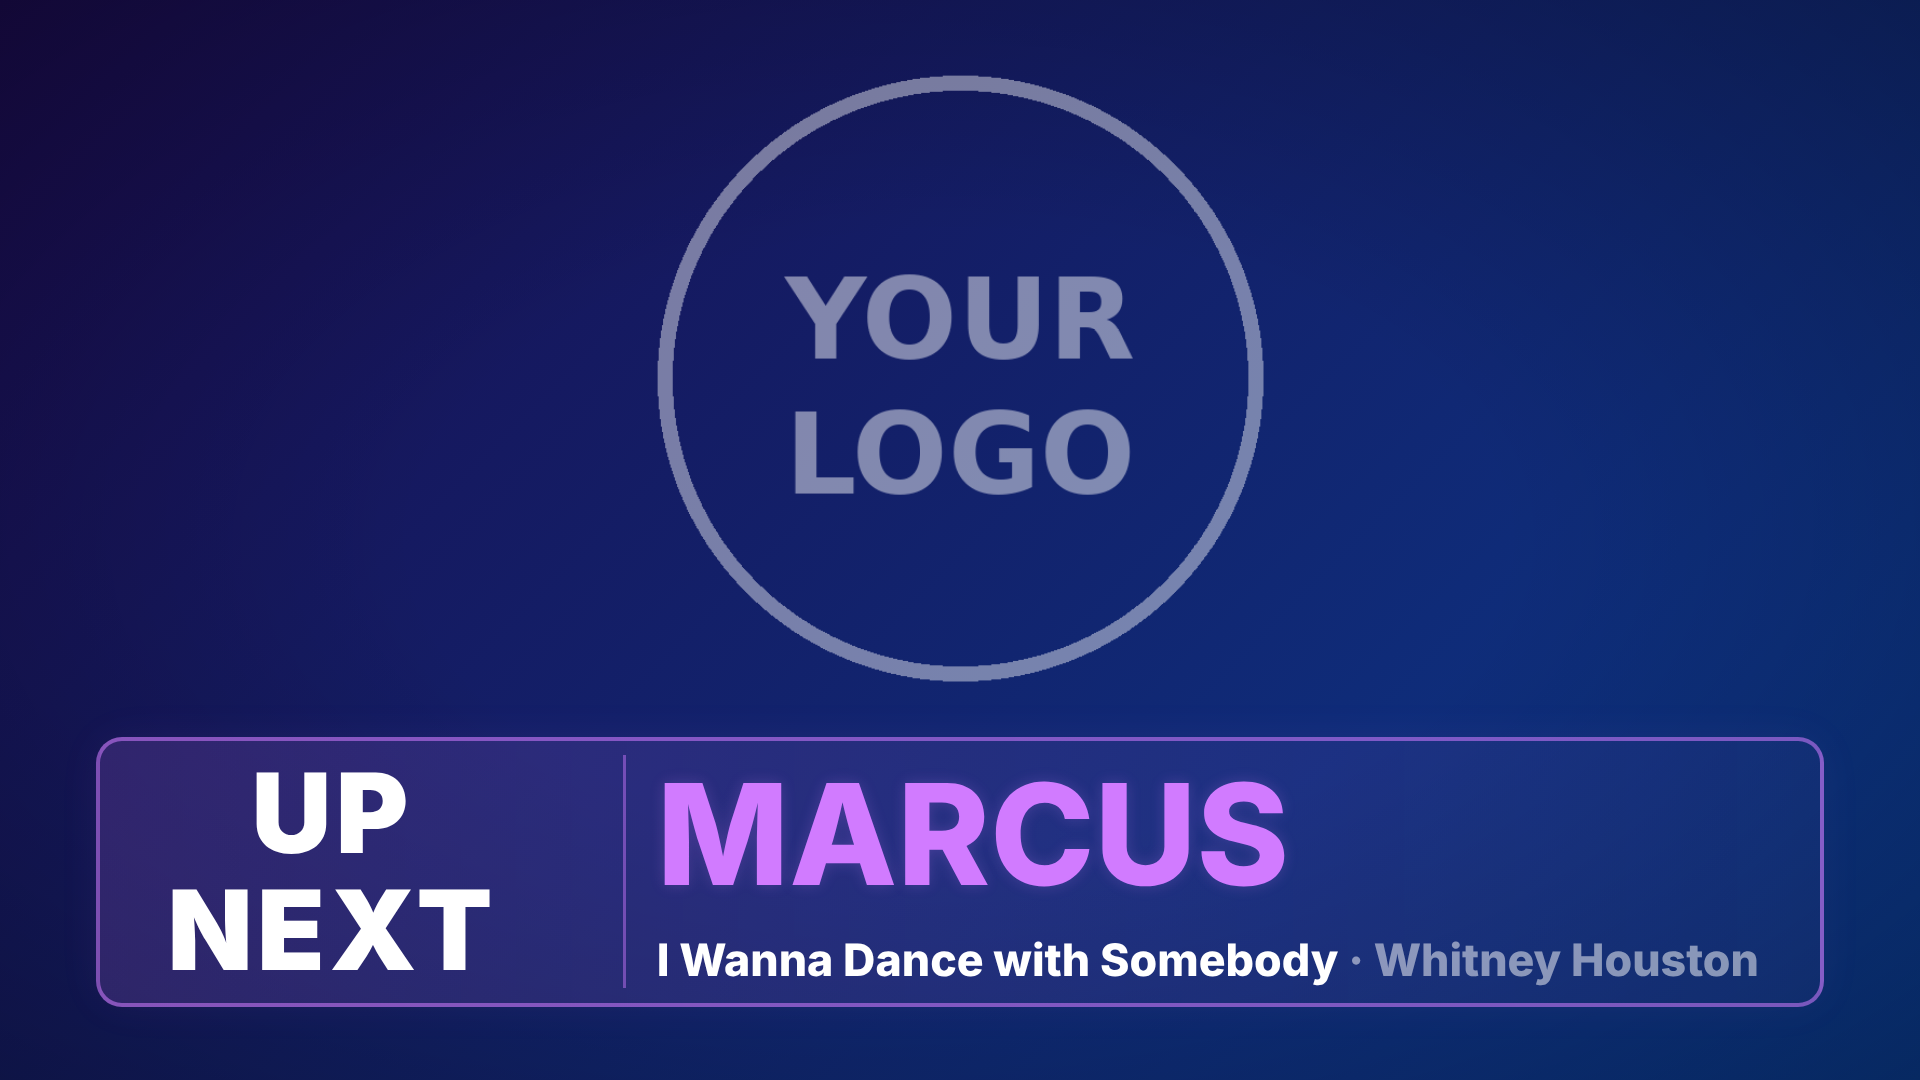
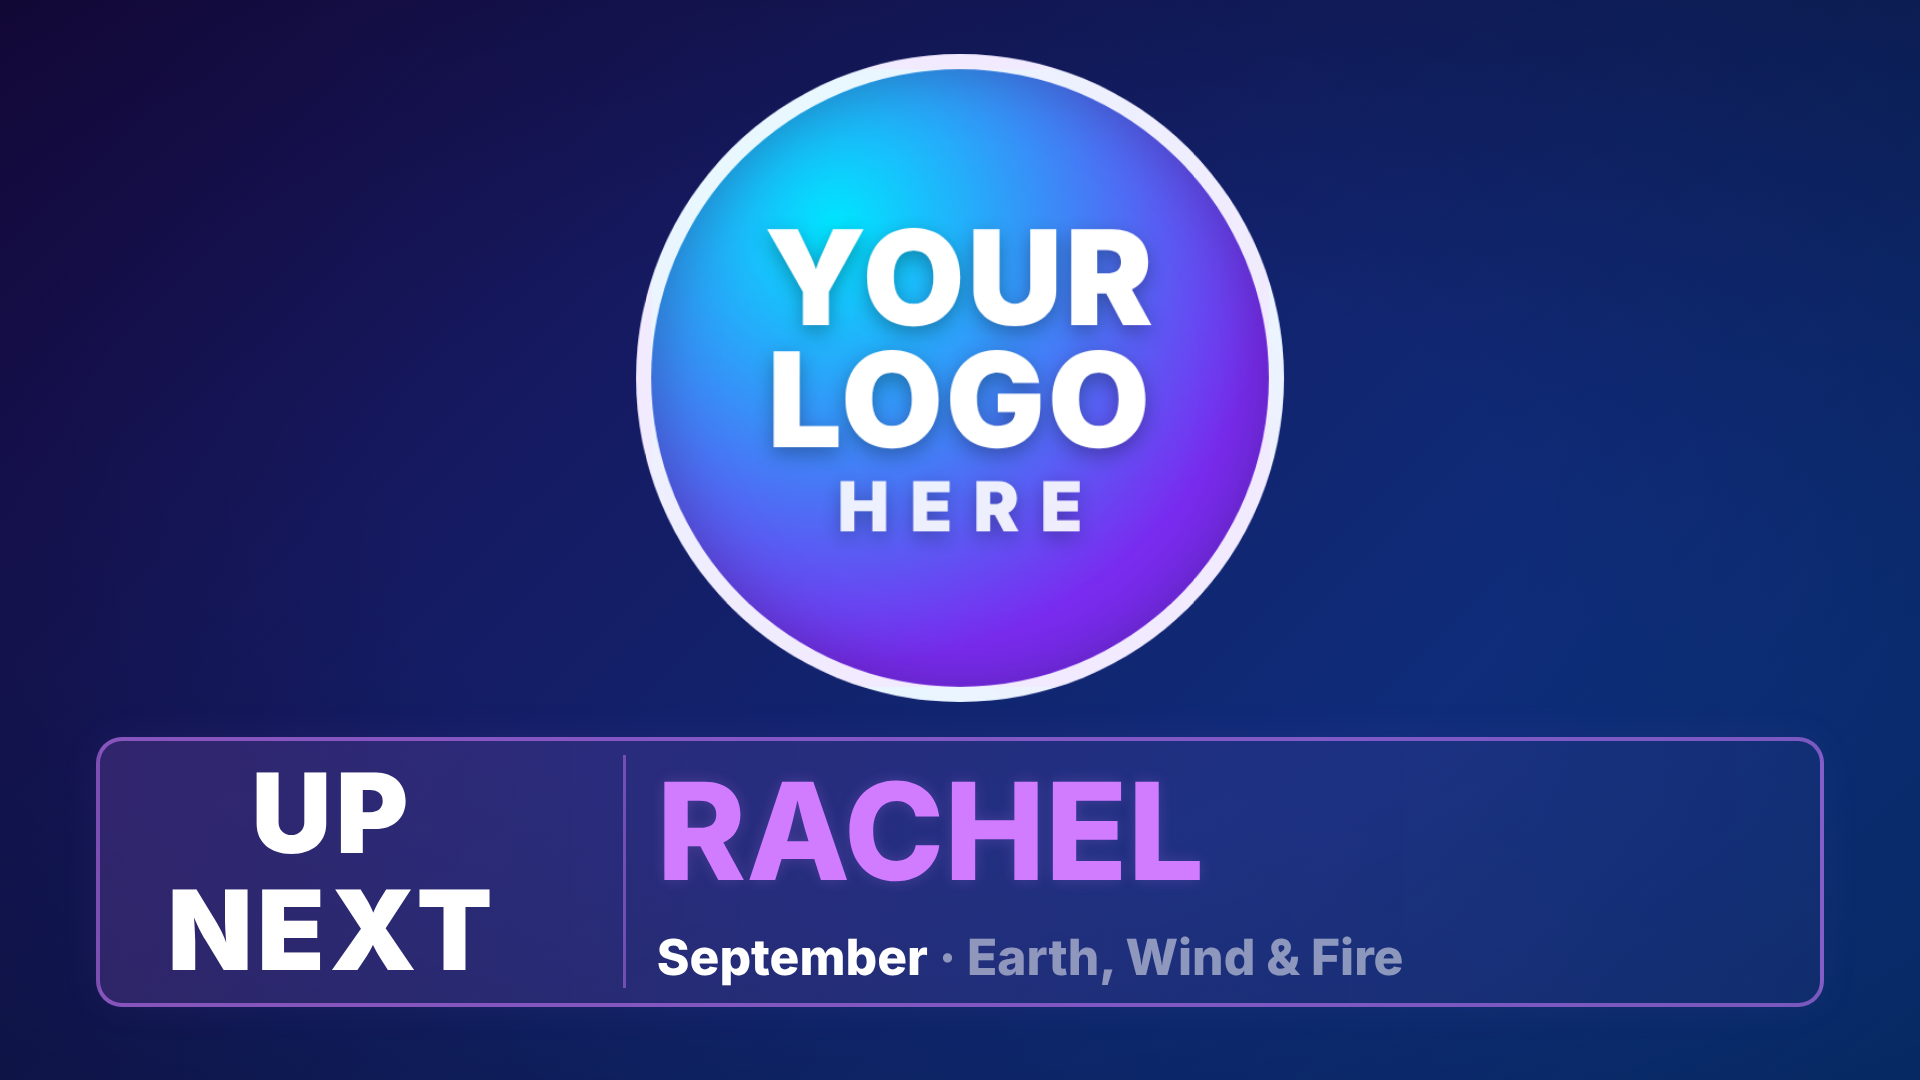
Bigger break screens, Equity in Options, new sample crowd and screenshots, spotlight starts on the queue
Claude-Session: https://claude.ai/code/session_01T6WqMGWzKwPbF2TtYgSiwr

Changed region(s): [[0.3125, 0.0306, 0.6875, 0.6722], [0.3438, 0.7028, 0.6875, 0.825], [0.3438, 0.8556, 0.9375, 0.9167]]

diff --git a/index.html b/index.html
@@ -52,7 +52,7 @@
   #brand { transform-origin: calc(100% - 22vh) 50%; }
   /* logosize=<percent>: smaller logo, flush with the right edge, so there is more room between it and the boxes */
   body.logosized:not(.qrboth):not(.intermission) #brand { height: calc(51.8vh * var(--ls)); width: calc(44vh * var(--ls));
-    top: calc(51.8vh * (1 - var(--ls)) / 2); right: 0; transform-origin: calc(100% - 22vh * var(--ls)) 50%; }
+    top: calc(51.8vh * (1 - var(--ls)) / 2); right: 2.5vh; transform-origin: calc(100% - 22vh * var(--ls)) 50%; }
   /* Before play (just the Up Next box up top): Coming Up stays where it sits during a song */
   /* and the Up Next box sits centered in the space the two boxes normally take */
   body.prestart:not(.intermission) #heroWrap { margin-top: 13.4vh; }
@@ -136,9 +136,12 @@
   #applause .claps { font-size: 7vh; margin-top: 2vh; letter-spacing: .3em; color: #fff; opacity: .7; }
   @keyframes applausein { from { opacity: 0; transform: scale(1.08); } to { opacity: 1; transform: none; } }
   @keyframes applausebeat { 0%, 100% { transform: scale(1); } 50% { transform: scale(1.06); } }
-  /* BRB / Dance Party: message under a smaller logo */
-  body.intermission.custombreak #brand { height: calc(100% - 60vh); }
-  body.intermission.custombreak #view:not(.nologo) #breakMsg { top: calc(100% - 60vh); height: 28vh; font-size: 11vh; }
+  /* BRB / Dance Party / Last Call: big logo, message under it, Up Next along the bottom */
+  body.intermission.custombreak #brand { height: calc(100% - 52vh); }
+  body.intermission.custombreak #view:not(.nologo) #breakMsg { top: calc(100% - 52vh); height: 22vh; font-size: 10vh; }
+  /* ...and when nobody's up next, the logo and message fill the screen */
+  body.intermission.custombreak.breaknonext #brand { height: calc(100% - 26vh); }
+  body.intermission.custombreak.breaknonext #view:not(.nologo) #breakMsg { top: calc(100% - 26vh); height: 24vh; font-size: 11vh; }
   /* LAST CALL: flashing red */
   @keyframes lastcall { 0%, 49% { opacity: 1; } 50%, 100% { opacity: .25; } }
   .lastcall { color: #ff2a2a !important; -webkit-text-fill-color: #ff2a2a; text-shadow: 0 0 3vh rgba(255,42,42,.7) !important;
@@ -261,7 +264,7 @@
   #nowBarText { min-width: 0; flex: 1; }
   #nowBarLabel { }
   #nowBarName { min-width: 0; flex: 0 1 auto; font-size: 13vh; font-weight: 800; line-height: 1.12; padding-bottom: .1em; white-space: nowrap; overflow: hidden; text-overflow: ellipsis;
-    text-shadow: 0 0 .6vh rgba(var(--now),.05); }
+    text-shadow: 0 0 1.4vh rgba(var(--now),.2); }
   #nowBarSong { font-size: 4.6vh; font-weight: 800; color: #fff; margin-top: .6vh; white-space: nowrap; overflow: hidden; text-overflow: ellipsis; }
 
   /* Hero: the singer who goes next, big and yellow. Name shrinks to fit (see fitName). */
@@ -286,7 +289,7 @@
   #empty .esub { font-size: 5vh; font-weight: 800; color: #fff; }
   /* Empty queue with a logo: the logo big in the middle, the message underneath. Without a logo: the card centered. */
   body.emptyq:not(.intermission) #view.nologo #empty { margin-top: 19vh; }
-  body.emptyq.emptyq:not(.intermission):not(.qrboth) #brand { top: 0; left: 0; right: 0; width: 100%; height: calc(100% - 30vh);
+  body.emptyq.emptyq:not(.intermission):not(.qrboth) #brand { top: 4vh; left: 0; right: 0; width: 100%; height: calc(100% - 38vh);
     object-position: center; transform-origin: 50% 50%; }
   body.emptyq:not(.intermission) #view:not(.nologo) #top { padding-right: 0; margin-top: auto; }
   body.emptyq:not(.intermission) #view:not(.nologo) #empty { height: 26vh; gap: 1vh; }
@@ -745,7 +748,7 @@ var qrcode=function(){var t=function(t,r){var e=t,n=g[r],o=null,i=0,a=null,u=[],
     var qrSvg = makeQr();
     clearInterval(splitTimer);
     document.body.classList.toggle("noflicker", off("flicker"));
-    var ls = parseFloat(cfg.logosize); if (isNaN(ls)) ls = 70;   // logos sit at 70% by default; logosize=100 for full size
+    var ls = parseFloat(cfg.logosize); if (isNaN(ls)) ls = 76;   // logos sit at 76% by default; logosize=100 for full size
     document.body.classList.toggle("logosized", ls > 0 && ls < 100);
     if (ls > 0 && ls < 100) document.documentElement.style.setProperty("--ls", Math.max(40, ls) / 100);
     var spinSec = parseFloat(cfg.qrswap); if (isNaN(spinSec)) spinSec = 5; spinSec = Math.max(3, Math.min(120, spinSec));
@@ -934,7 +937,9 @@ var qrcode=function(){var t=function(t,r){var e=t,n=g[r],o=null,i=0,a=null,u=[],
     if (!ok) { spotSince = 0; setSpot(false); return; }
     if (!spotSince) spotSince = Date.now();
     var t = (Date.now() - spotSince) / 1000, cycle = 20;   // 10 seconds of the card, 10 of the normal screen
-    var want = (t % cycle) < 10;
+    // All-night mode starts on the normal screen, so a fresh page shows the whole queue first;
+    // between-songs mode still opens on the card.
+    var want = spotMode === "loop" ? (t % cycle) >= 10 : (t % cycle) < 10;
     if (want && !spotShown) {
       $("spotLabel").textContent = nowCard ? $("nowLabelText").innerHTML.replace(/<br\s*\/?>/gi, " ").replace(/<[^>]*>/g, "").trim()
         : ($("nextLabelText").innerHTML.replace(/<br\s*\/?>/gi, " ").replace(/<[^>]*>/g, "") || "UP NEXT").replace(/\u2026$/, "").trim();
@@ -1105,7 +1110,7 @@ var qrcode=function(){var t=function(t,r){var e=t,n=g[r],o=null,i=0,a=null,u=[],
     }
     if ((m = singer.match(/^last\s*call\b\s*(\d{1,3})?/i)))
       return { kind: "lastcall", mins: m[1] ? parseInt(m[1], 10) : 0 };
-    if ((m = singer.match(/^dance\s*(?:party\b|!+)(.*)$/i))) {
+    if ((m = singer.match(/^dance(?:\s*party)?\b\s*!*(.*)$/i))) {
       var restTxt = m[1], dm = restTxt.match(/(\d{1,3})/);
       return { kind: "dance", mins: dm ? parseInt(dm[1], 10) : 0, rainbow: /\b(r|rainbow)\b/i.test(restTxt) };
     }
@@ -1192,6 +1197,7 @@ var qrcode=function(){var t=function(t,r){var e=t,n=g[r],o=null,i=0,a=null,u=[],
     // Someone's singing but nobody's signed up after them: an open Up Next slot inviting people up.
     heroOpen = singing && !heroItem;
     $("heroWrap").classList.toggle("hidden", !heroItem && !heroOpen);
+    document.body.classList.toggle("breaknonext", !heroItem && !heroOpen);
     if (heroOpen) {
       $("heroName").textContent = "You?"; $("heroName").className = ""; $("heroName").style.color = ""; $("heroName").style.textShadow = "";
       $("heroSong").textContent = "Come sign up!";
@@ -1809,12 +1815,13 @@ var qrcode=function(){var t=function(t,r){var e=t,n=g[r],o=null,i=0,a=null,u=[],
 
   // ---------------------------------------------------------------- demo mode
   var DEMO_SONGS = [
-    ["Jessica", "Don't Stop Believin'", "Journey"], ["Marcus", "I Wanna Dance with Somebody", "Whitney Houston"],
-    ["Dana & Mike", "Islands in the Stream", "Kenny Rogers & Dolly Parton"], ["Priya", "Before He Cheats", "Carrie Underwood"],
-    ["Tyler", "Mr. Brightside", "The Killers"], ["BRB KJ 5", "", ""], ["Grace", "Total Eclipse of the Heart", "Bonnie Tyler"],
-    ["Luis", "Sweet Caroline", "Neil Diamond"], ["Becca", "Dancing Queen", "ABBA"],
-    ["Sam", "Friends in Low Places", "Garth Brooks"], ["Olivia", "Livin' on a Prayer", "Bon Jovi"],
-    ["Raven", "Bela Lugosi's Dead", "Bauhaus"], ["Big Steve", "Bohemian Rhapsody", "Queen"]];
+    ["Maya", "Valerie", "Amy Winehouse"], ["Rachel", "September", "Earth, Wind & Fire"],
+    ["Dana & Mike", "Shallow", "Lady Gaga & Bradley Cooper"], ["Priya", "Espresso", "Sabrina Carpenter"],
+    ["Kevin", "Friends in Low Places", "Garth Brooks"], ["Ashley", "Man! I Feel Like a Woman!", "Shania Twain"],
+    ["BRB KJ 5", "", ""], ["Tony", "Mr. Brightside", "The Killers"], ["Grace", "Total Eclipse of the Heart", "Bonnie Tyler"],
+    ["Luis", "Livin' la Vida Loca", "Ricky Martin"], ["Becca", "Pink Pony Club", "Chappell Roan"],
+    ["Sam", "Wagon Wheel", "Darius Rucker"], ["Keisha", "No Scrubs", "TLC"], ["Olivia", "Rolling in the Deep", "Adele"],
+    ["Ray", "Sweet Caroline", "Neil Diamond"], ["Chris", "Bohemian Rhapsody", "Queen"]];
   // Goth preview: a darker crowd
   var DEMO_GOTH = [
     ["Raven", "Bela Lugosi's Dead", "Bauhaus"], ["Lilith", "Cities in Dust", "Siouxsie and the Banshees"],
@@ -1970,11 +1977,12 @@ var qrcode=function(){var t=function(t,r){var e=t,n=g[r],o=null,i=0,a=null,u=[],
     ["time", "Song progress", [["", "Bar"], ["both", "Bar + countdown"], ["off", "Off"]]],
     ["clock", "Clock", [["", "On"], ["off", "Off"]]],
     ["caps", "Names", [["", "ALL CAPS"], ["off", "As typed"]]],
-    ["logosize", "Logo size", [["", "70%"], ["60", "60%"], ["80", "80%"], ["90", "90%"], ["100", "100%"]]],
+    ["logosize", "Logo size", [["", "76%"], ["60", "60%"], ["70", "70%"], ["90", "90%"], ["100", "100%"]]],
     ["spin", "Logo spin", [["", "Off"], ["on", "Every 5 sec"]]],
     ["qr", "QR code", [["", "Off"], ["on", "Instead of logo"], ["split", "Flips with logo"], ["both", "Both"]]],
     ["vignette", "Vignette", [["", "Soft"], ["60", "Strong"], ["off", "Off"]]],
     ["flicker", "Singer flicker", [["", "On"], ["off", "Off"]]],
+    ["equity", "Equity (experimental)", [["", "Off"], ["on", "On (3 between)"], ["5", "On (5 between)"], ["scale", "Scale with crowd"]]],
     ["logo", "Logo link", "input"]
   ];
   var ed = {};

diff --git a/README.md b/README.md
@@ -37,7 +37,7 @@
 - **Scan-to-sing QR code** (`qr=on`) so guests can join your KaraFun session and add songs. Use it in place of your logo, flip between your logo and the QR code like a coin every 5 seconds (`qr=split`), or show both, small (`qr=both`).
 - **Applause mode** (`applause=on`): a big "MAKE SOME NOISE FOR (name)!!!" when each singer finishes.
 - **Equity mode** (`equity=on`, *experimental*): spaces out repeat singers in KaraFun's queue so everyone gets a turn.
-- **Planned breaks and announcements:** queue `BRB KJ 15`, `DANCE! 10` or `LAST CALL` as a singer name and the screen shows a countdown, a DANCE PARTY or a flashing LAST CALL. Nothing to turn on.
+- **Planned breaks and announcements:** queue `BRB KJ 15`, `DANCE 10` or `LAST CALL` as a singer name and the screen shows a countdown, a DANCE PARTY or a flashing LAST CALL. Nothing to turn on.
 - **Idle screen** (`idle=5`): *paused for now while I rework it.* The setting is ignored, so the screen always shows the full queue.
 
 **Built to run all night, hands-off:**
@@ -99,7 +99,7 @@ Anything you don't set uses the defaults: no logo, a deep purple-to-blue backgro
 | `code` | Your KaraFun remote control code | `code=123456` |
 | `logo` | A direct link to your logo image. A transparent PNG looks best | `logo=https://i.imgur.com/abc123.png` |
 | `spin` | `on` makes your logo spin like a coin every 5 seconds (`qrswap=10` for every 10) | `spin=on` |
-| `logosize` | Logo size in percent, 40 to 100 (default 70, which leaves room between it and the boxes) | `logosize=100` |
+| `logosize` | Logo size in percent, 40 to 100 (default 76, which leaves room between it and the boxes) | `logosize=100` |
 | `vignette` | How much the edges of the background darken, 1 to 100 (default 30; `on` is 60, `off` removes it) | `vignette=off` |
 | `flicker` | The Now Singing name flickers a little, like old neon (on by default); `off` keeps it steady | `flicker=off` |
 | `bg1`, `bg2` | Background fade colors, top-left to bottom-right | `bg1=0b3d2e&bg2=1f7a5a` |
@@ -153,7 +153,7 @@ Keeps the focus on who's singing and who's up next. **On by default** (as `loop`
 
 - `spotlight=on`: only between songs. When a song ends (after the applause, if that's on), the screen wipes over to a full-screen **UP NEXT** card with the next singer's name, big and glowing. After 10 seconds it wipes back to the normal screen, then back to the card 10 seconds later, back and forth until the next song starts.
 - `spotlight=loop` (the default): the card all night, during songs too: 10 seconds of the card, then 10 seconds of the normal screen. While a song has more than 30 seconds left, the card shows **NOW SINGING** and the current singer (in the Now Singing color); in the last 30 seconds and between songs it switches to **UP NEXT** (with `upin=on` it says UP IN 3 MIN).
-- It skips BRB, DANCE! and LAST CALL breaks.
+- It skips BRB, DANCE and LAST CALL breaks.
 - See everything together in goth: **https://kjqv.github.io/goth**
 
 | While a song plays | Near the end and between songs |
@@ -176,13 +176,13 @@ Off by default. Add `applause=on` and when a singer finishes, the screen shows a
 <details>
 <summary><b>Equity mode <i>(experimental)</i></b></summary>
 
-Off by default. Turn it on with `equity=on` and the screen spaces out repeat singers in KaraFun's queue, keeping at least 3 other singers between someone's songs. Set your own number with `equity=5`, or use `equity=scale` to have the spacing grow with the crowd: about a third of the people in line (5 singers → 1 between repeats, 15 singers → 5).
+Off by default. Turn it on in the **Options** menu (Equity), or add `equity=on` to the link, and the screen spaces out repeat singers in KaraFun's queue, keeping at least 3 other singers between someone's songs. Set your own number with `equity=5`, or use `equity=scale` to have the spacing grow with the crowd: about a third of the people in line (5 singers → 1 between repeats, 15 singers → 5).
 
 - Same name = same singer. Give two Susans different names ("Susan B", "Susan K").
 - It never moves the song that's on or the one in Up Next.
 - Anything you move by hand in KaraFun stays where you put it.
 - If there aren't enough other singers, the extra songs go to the end.
-- BRB, DANCE! and LAST CALL entries never move, and don't count as singers.
+- BRB, DANCE and LAST CALL entries never move, and don't count as singers.
 - See it on the sample queue: `https://kjqv.github.io/?demo&equity=on`
 
 </details>
@@ -195,7 +195,7 @@ Type one of these as the singer name on any song. Don't press play on it; skip i
 | Singer name | What the screen shows |
 |---|---|
 | `BRB KJ 15` | "15 min break · KJ will be back" in the line (in black letters, so it stands out as a break), then "KJ will be back · in about 15 min". KJ can be any name, BRB can go anywhere in it (`Bowser BRB 5`), or leave the name out (`BRB 10`) |
-| `DANCE! 10` (or `Dance Party 10`) | **DANCE PARTY** flashing through rainbow colors (or your `dance=` color), then "Karaoke's back in about 10 min" |
+| `DANCE 10` (or `DANCE! 10`, `Dance Party 10`) | **DANCE PARTY** flashing through rainbow colors (or your `dance=` color), then "Karaoke's back in about 10 min" |
 | `LAST CALL` | **LAST CALL** flashing in red, "Get your drink orders in!" |
 
 These are just singer names to KaraFun, so KaraFun's own screen and scrolling queue will still show them as typed ("BRB KJ 15" and so on). Only this screen turns them into breaks and announcements.
@@ -207,7 +207,7 @@ These are just singer names to KaraFun, so KaraFun's own screen and scrolling qu
 
 **Paused for now:** `idle=` is ignored while I rework this, so the screen always shows Up Next and Coming Up. The description below is how it worked.
 
-Turn this on with `idle=5` and if KaraFun hasn't played anything for 5 minutes (say you're playing a song from YouTube, or taking a music break), the screen switches to a simpler idle screen: your logo big in the middle (or "Short break" if you haven't set a logo) plus the Up Next box. As soon as you press play, it goes back to normal. It's off by default. Planned breaks (`BRB`, `DANCE!`, `LAST CALL`) work either way.
+Turn this on with `idle=5` and if KaraFun hasn't played anything for 5 minutes (say you're playing a song from YouTube, or taking a music break), the screen switches to a simpler idle screen: your logo big in the middle (or "Short break" if you haven't set a logo) plus the Up Next box. As soon as you press play, it goes back to normal. It's off by default. Planned breaks (`BRB`, `DANCE`, `LAST CALL`) work either way.
 
 | Option | What it does | Example |
 |---|---|---|
@@ -254,12 +254,14 @@ https://kjqv.github.io/?code=123456&logo=https://i.imgur.com/abc123.png&bg1=0b3d
 
 ### Example looks
 
-![Four example looks: clean, black and white with every detail, colorful with a logo, and Goth](screenshots/example-looks.png)
+![Six example looks: arcade pixel, big names, synthwave with music notes, goth, black and white names only, ice with houndstooth](screenshots/example-looks.png)
 
-- **Clean** (names and songs only): `&eta=off&clock=off&numbers=off&icons=off&pulse=off&time=off`
-- **Black & white, every detail:** `&bg1=0a0a0a&bg2=262626&now=ffffff&next=ffffff&up1=f2f2f2&up2=8c8c8c&dance=ffffff&time=both&line=on`
-- **Colorful, medium details, logo:** `&bg1=1a0533&bg2=4b0e5e&now=00f0ff&next=ff2ad4&up1=ffb347&up2=ff5fb0&clock=off&numbers=off&logo=https://i.imgur.com/abc123.png`
+- **Arcade, pixel font:** `&bg1=000000&bg2=101010&now=39ff14&next=ffe600&up1=00e5ff&up2=ff00aa&font=pixel&clock=off`
+- **Big names for a far-away TV:** `&count=4&songs=off&bg1=7a2e05&bg2=d9600f&now=ffd8a8&next=ffffff&up1=ffb366&up2=fff0dc&clock=off`
+- **Synthwave with scrolling music notes:** `&bg1=1a0533&bg2=4b0e5e&now=00f0ff&next=ff2ad4&up1=ffb347&up2=ff5fb0&pattern=notes&scroll=on&clock=off`
 - **Goth:** `&theme=goth`
+- **Black & white, names only:** `&bg1=0a0a0a&bg2=262626&now=ffffff&next=ffffff&up1=f2f2f2&up2=8c8c8c&dance=ffffff&songs=off&eta=off&numbers=off&icons=off&line=on`
+- **Ice with houndstooth:** `&bg1=071a2b&bg2=0e3a5a&now=7df9ff&next=ffffff&up1=bde8ff&up2=4fa8ff&pattern=houndstooth&clock=off`
 
 ### Example setups
 
@@ -290,8 +292,8 @@ Any PNG or JPG hosted on the web works: point `logo=` (or `bgimg=`) at the image
 <details>
 <summary><b>Fire Stick tips (and which Fire Stick to get)</b></summary>
 
-- **Check which Fire Stick you have.** Amazon's newest sticks run **Vega OS** instead of Fire OS: the **Fire TV Stick HD (2nd Gen, 2026)**, anything named **Select**, and the newest plain **Fire TV Stick 4K** (3rd gen). They can't install other apps, and they go to sleep after about 20 minutes no matter what the page does. Check under **Settings → My Fire TV → About**: a version that says **Fire OS** is fine; one that starts with **1** or **2** is Vega OS.
-- **For an always-on screen, use a Fire OS stick** (a Fire TV Stick 4K Max or 4K Plus is a good pick, and older sticks work too) with **[Fully Kiosk Browser](https://www.fully-kiosk.com)** *(not affiliated)* instead of Silk. Install the **Downloader** app by AFTVnews from the Amazon Appstore, use it to download Fully Kiosk from fully-kiosk.com, set the **Start URL** to your KJQV link, and turn on **Keep Screen On**. That gets around the 20-minute sleep.
+- **Check which Fire Stick you have.** Amazon's newest sticks run **Vega OS** instead of Fire OS: the **Fire TV Stick HD (2nd Gen, 2026)**, anything named **Select**, and the newest plain **Fire TV Stick 4K** (3rd gen). They can't install other apps, and the Silk browser drops back to the home screen after about 10 minutes no matter what the page does. Check under **Settings → My Fire TV → About**: a version that says **Fire OS** is fine; one that starts with **1** or **2** is Vega OS.
+- **For an always-on screen, use a Fire OS stick** (a Fire TV Stick 4K Max or 4K Plus is a good pick, and older sticks work too) with **[Fully Kiosk Browser](https://www.fully-kiosk.com)** *(not affiliated)* instead of Silk. Install the **Downloader** app by AFTVnews from the Amazon Appstore, use it to download Fully Kiosk from fully-kiosk.com, set the **Start URL** to your KJQV link, and turn on **Keep Screen On**. That gets around the sleep.
 - **Hide Silk's address bar:** once the page loads, press **down** on the remote.
 - **Stop the screensaver:** turn off **Ambient Experience**, or set **Settings → Display & Sounds → Screensaver → Start Time → Never**.
 - **Edges cut off?** The TV is cropping the picture. Try **Settings → Display & Sounds → Display → Calibrate Display** on the Fire Stick, or set the TV's picture size to "Just Scan" or "Fit to Screen".
